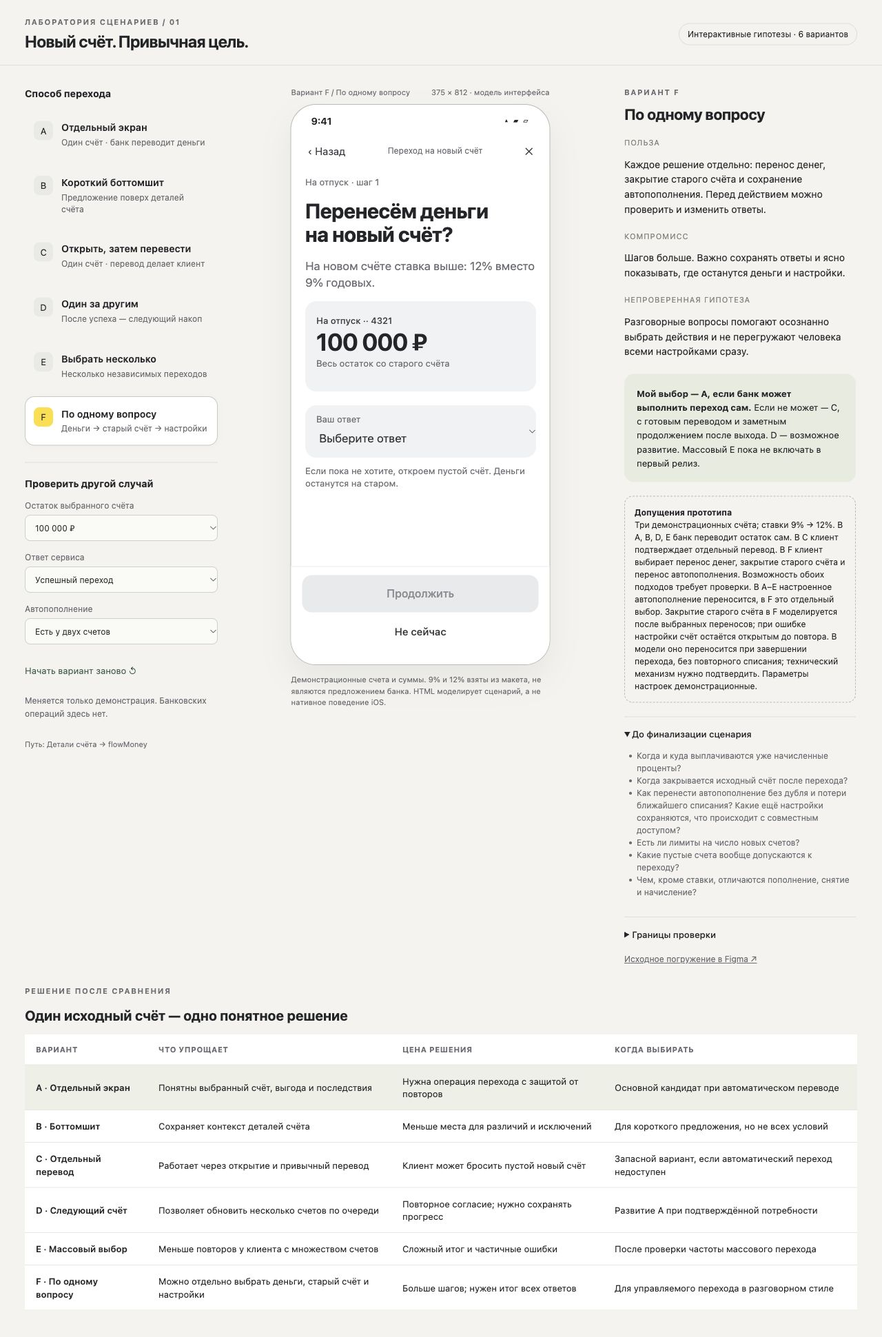
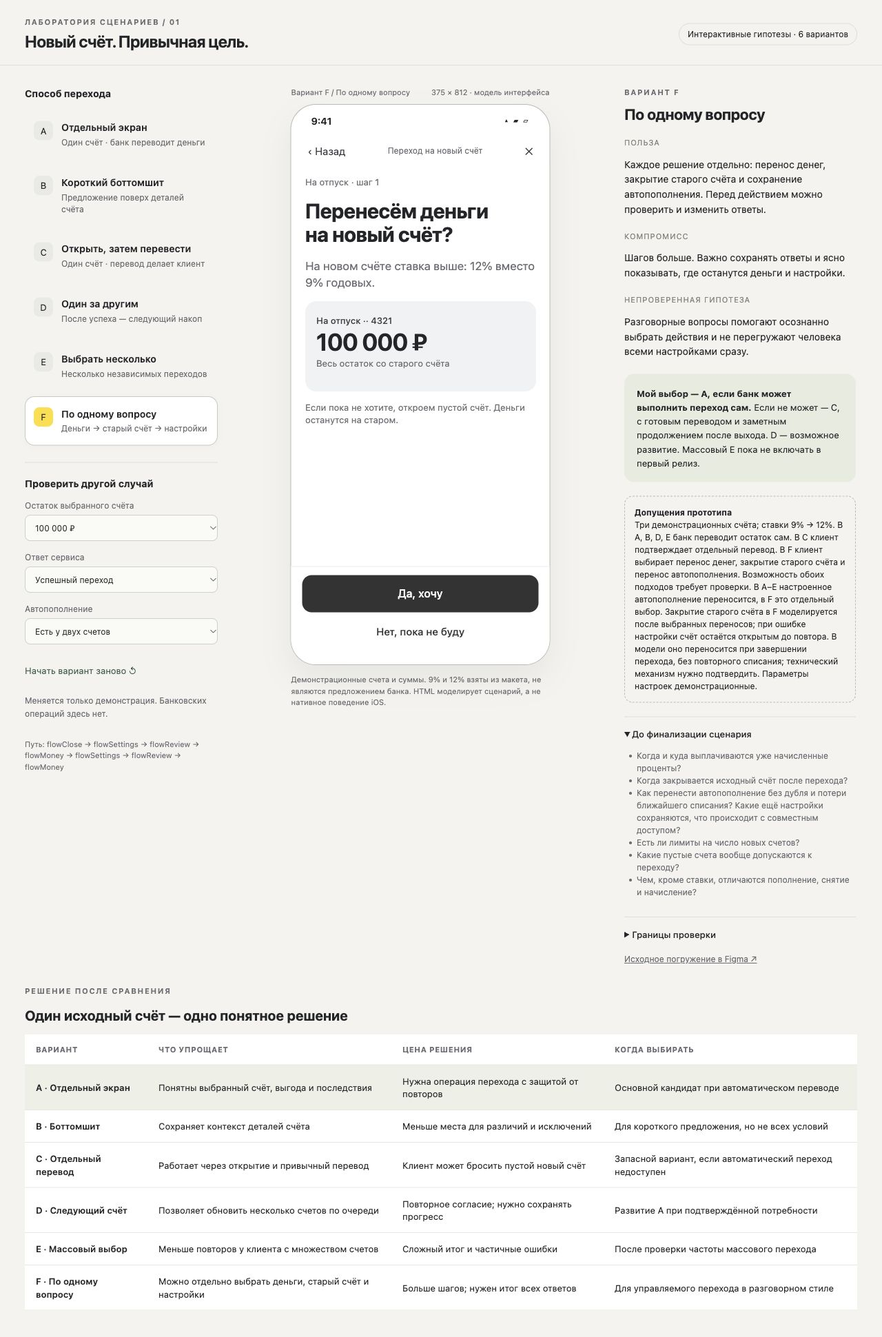
Перенести ответы варианта F в нижние кнопки

Changed region(s): [[0.3438, 0.433, 0.625, 0.4948], [0.3438, 0.3093, 0.4688, 0.3711], [0.0312, 0.5567, 0.1875, 0.5876]]

diff --git a/prototypes/account-migration/index.html b/prototypes/account-migration/index.html
@@ -7,7 +7,7 @@
 :root{font-family:-apple-system,BlinkMacSystemFont,"SF Pro Text",sans-serif;color:#242528;background:#f4f3ef;font-synthesis:none;--muted:#6c6e73;--line:#deded9;--surface:#f1f2f4;--accent:#ffdd2d}*{box-sizing:border-box}body{margin:0}button,input,select{font:inherit}button{cursor:pointer}button:disabled{cursor:default}a{color:inherit}button:focus-visible,a:focus-visible,select:focus-visible,input:focus-visible{outline:3px solid #326bc7;outline-offset:3px}header.lab{padding:24px 36px 20px;border-bottom:1px solid var(--line);display:flex;justify-content:space-between;align-items:center;gap:20px}.eyebrow{font-size:11px;font-weight:650;letter-spacing:1.6px;text-transform:uppercase;color:var(--muted)}header h1{font-size:24px;letter-spacing:-.7px;margin:8px 0 0;font-weight:650}.badge{font-size:12px;padding:8px 12px;border:1px solid var(--line);border-radius:99px;white-space:nowrap}.layout{display:grid;grid-template-columns:minmax(230px,280px) minmax(390px,1fr) minmax(260px,340px);gap:40px;max-width:1440px;margin:auto;padding:32px 36px}.sidebar h2,.review h2{font-size:14px;margin:0 0 16px}.variants{display:grid;gap:8px}.variant{display:flex;gap:12px;padding:15px 12px;text-align:left;border:1px solid transparent;border-radius:14px;background:transparent;color:inherit}.variant:hover{background:#eaeae5}.variant[aria-pressed=true]{background:#fff;border-color:#c7c9c2;box-shadow:0 3px 12px #25272006}.letter{width:28px;height:28px;display:grid;place-items:center;background:#e9eae5;border-radius:8px;font-size:13px;flex:none}.variant[aria-pressed=true] .letter{background:var(--accent)}.variant strong{font-size:14px;font-weight:600;display:block;line-height:1.35}.variant small{font-size:12px;color:var(--muted);display:block;margin-top:4px;line-height:1.4}.controls{border-top:1px solid var(--line);margin-top:24px;padding-top:22px}.control{display:grid;gap:7px;font-size:12px;margin:16px 0;color:var(--muted)}select{padding:10px;border:1px solid #cdd0c9;border-radius:8px;color:#303331;background:#fafaf7;width:100%}.text-button{border:0;background:transparent;padding:10px 0;min-height:44px;color:#3b5c49;font-size:13px;text-align:left}.note{font-size:12px;line-height:1.6;color:var(--muted)}.stage{display:flex;align-items:center;flex-direction:column}.stage-label{width:375px;display:flex;justify-content:space-between;font-size:11px;color:var(--muted);margin:0 0 12px}.phone{width:375px;height:812px;border-radius:36px;background:#fff;box-shadow:0 0 0 1px #b8bbb4,0 20px 45px #262b2112;overflow:hidden;position:relative;display:flex;flex-direction:column;flex-shrink:0}.status{height:44px;padding:15px 29px 6px;font-size:14px;font-weight:650;display:flex;justify-content:space-between;flex:none}.status .icons{letter-spacing:2px;font-size:12px}.nav{height:46px;display:flex;justify-content:space-between;align-items:center;padding:0 16px;flex:none;border-bottom:1px solid transparent}.nav button{font-size:15px;background:none;border:0;min-height:44px;padding:0 8px;color:#37393e}.nav span{font-size:12px;color:var(--muted)}.scroll{padding:8px 20px 20px;overflow:auto;flex:1;overscroll-behavior:contain}.scroll h1{font-size:29px;line-height:1.12;letter-spacing:-.7px;margin:10px 0 16px;font-weight:700;outline:none}.scroll h2{font-size:19px;line-height:1.25;margin:24px 0 12px;letter-spacing:-.3px}.scroll p{font-size:15px;line-height:1.4;margin:10px 0 16px}.secondary{color:var(--muted)}.account-chip{font-size:13px;margin:4px 0 12px;display:flex;justify-content:space-between;gap:8px;color:var(--muted)}.account-chip strong{font-weight:500;color:#383b40}.card{padding:18px;border-radius:22px;background:var(--surface);margin:14px 0}.card h2{font-size:17px;margin:0 0 14px}.rate-grid{display:grid;grid-template-columns:1fr 1fr;gap:16px}.rate-grid small{font-size:12px;color:var(--muted)}.rate-grid strong{display:block;font-size:32px;letter-spacing:-1px;margin-top:7px}.rate-grid .old{font-size:26px;color:#75787f;font-weight:500;margin-top:12px}.rate-grid .new{border-left:1px solid #d8dade;padding-left:20px}.rate-foot{font-size:12px;line-height:1.4;margin-top:14px;color:var(--muted)}.row{display:flex;justify-content:space-between;gap:18px;font-size:14px;line-height:1.4;padding:12px 0;border-bottom:1px solid #e4e5e8}.row:last-child{border:0}.row span{color:var(--muted)}.row b{font-weight:500;text-align:right;max-width:61%}.steps{display:grid;gap:16px;padding:0;list-style:none;font-size:14px;line-height:1.4}.steps li{display:flex;gap:12px}.steps .num{background:#e8e9eb;width:24px;height:24px;border-radius:50%;display:grid;place-items:center;flex:none;font-size:12px}.steps b{font-weight:600}.steps small{display:block;font-size:13px;color:var(--muted);margin-top:4px}.footer{padding:12px 16px 24px;border-top:1px solid #ececef;background:#fff;flex:none}.primary,.secondary-button{display:block;width:100%;border:0;border-radius:14px;min-height:54px;padding:14px 12px;font-size:16px;font-weight:500;line-height:1.3}.primary{background:#333;color:#fff}.primary:disabled{background:#e9eaec;color:#8c8e93}.secondary-button{background:transparent;color:#333;margin-top:4px;min-height:44px;font-size:15px}.small-link{display:block;width:100%;min-height:44px;border:0;background:none;color:#3563a0;text-align:left;padding:10px 0;font-size:14px}.check{display:flex;align-items:flex-start;gap:11px;font-size:14px;line-height:1.4;padding:12px 0;cursor:pointer}.check input{width:22px;height:22px;accent-color:#333;flex:none;margin:0}.fine{font-size:12px!important;line-height:1.4!important;color:var(--muted)}.rule{height:1px;background:#e3e4e6;margin:18px 0}.balance{font-size:35px!important;letter-spacing:-1px;font-weight:650;margin:8px 0!important}.actions{display:flex;gap:10px;margin:22px 0}.actions span{padding:14px 8px;border-radius:16px;background:#f1f2f5;flex:1;text-align:center;color:#4268a3;font-size:13px}.entry{padding:18px;border:0;border-radius:20px;background:#f1f2f4;width:100%;text-align:left;display:flex;justify-content:space-between;gap:12px;color:#25282c}.entry strong{font-size:17px;display:block;line-height:1.2}.entry small{display:block;font-size:13px;color:var(--muted);margin-top:7px}.arrow{align-self:center;font-size:24px;color:#7b7e84}.mini-cards{display:flex;gap:12px}.mini-cards .card{flex:1;padding:16px;font-size:14px}.mini-cards strong{display:block;margin-bottom:12px}.pill{font-size:12px;background:#e4eadf;border-radius:20px;padding:6px 10px;display:inline-block;color:#40513d}.done-icon{height:62px;width:62px;border-radius:50%;display:grid;place-items:center;background:#e9eee7;color:#456442;font-size:30px;margin:32px 0 24px}.pending-icon{background:#f2eee2;color:#8c7444}.review{padding:0 2px}.review h3{font-size:22px;line-height:1.2;letter-spacing:-.4px;margin:12px 0}.review p{font-size:14px;line-height:1.55}.review-label{font-size:11px;text-transform:uppercase;letter-spacing:1px;color:#85877e;margin-top:22px}.recommendation{padding:18px;border-radius:14px;background:#e7ebdf;margin-top:22px}.recommendation p{margin:0;font-size:13px}.review details{border-top:1px solid var(--line);padding:15px 0;font-size:13px;line-height:1.5}.review summary{cursor:pointer;font-weight:500}.review ul{padding-left:18px;color:var(--muted);font-size:12px}.review .demo{border:1px dashed #b8bdb2;padding:14px;border-radius:12px;font-size:12px;line-height:1.5;margin:20px 0}.preview-bottom{font-size:11px;color:var(--muted);max-width:375px;line-height:1.5;margin-top:14px}.sheet-backdrop{position:absolute;inset:0;background:#20232b55;display:flex;align-items:flex-end;z-index:5}.sheet{background:white;max-height:90%;border-radius:28px 28px 0 0;width:100%;display:flex;flex-direction:column;box-shadow:0 -10px 60px #0002}.handle{width:36px;height:5px;border-radius:5px;background:#d4d5d8;margin:9px auto 2px;flex:none}.sheet .scroll{padding:0 20px 14px}.sheet h1{font-size:27px}.sheet .nav{height:40px}.account-choice{display:flex;gap:12px;align-items:center;background:var(--surface);padding:16px;border-radius:18px;margin:10px 0;cursor:pointer}.account-choice input{width:22px;height:22px;accent-color:#333;flex:none}.account-choice strong{font-size:15px;display:block}.account-choice small{font-size:12px;color:var(--muted);display:block;margin-top:5px}.account-choice b{margin-left:auto;font-size:14px;font-weight:500;white-space:nowrap}.quiet{border:0;background:none}.subtle-warning{background:#f6f0e4;padding:14px;border-radius:14px;font-size:13px;line-height:1.4;margin:14px 0}.processing{padding-top:70px}.spinner{width:42px;height:42px;border:3px solid #e4e5e8;border-top-color:#333;border-radius:50%;margin:20px 0 30px}.scenario-info{margin-top:14px;padding:12px 14px;background:#ebece6;border-radius:10px;font-size:12px;line-height:1.5}.comparison{max-width:1368px;margin:0 auto 40px;padding:0 36px}.comparison h2{font-size:20px}.table-wrap{overflow:auto}table{width:100%;border-collapse:collapse;text-align:left;background:#fff;font-size:13px}th,td{padding:14px 16px;border-bottom:1px solid #e6e7e0;line-height:1.4;min-width:150px}th{font-size:11px;letter-spacing:.6px;text-transform:uppercase;color:var(--muted)}tr.selected{background:#edf0e7}td:first-child{font-weight:600}.trail{font-size:11px;line-height:1.5;color:var(--muted);padding-top:14px}.empty{padding:30px 0}.account-result{background:#f2f3f5;border-radius:16px;padding:14px;margin:10px 0;font-size:14px}.account-result small{color:var(--muted);display:block;margin-top:6px}.status-line{display:flex;gap:8px;align-items:center;margin-top:8px;font-size:12px;color:#4e694a}.status-dot{width:6px;height:6px;border-radius:50%;background:currentColor}.scope{font-size:13px!important;padding:0 0 8px}.review .link{font-size:12px;color:#53654a}.notice{font-size:12px;color:#8a7135}.source-link{font-size:12px;color:var(--muted)}
 @media(max-width:1100px){.layout{gap:24px;grid-template-columns:240px 1fr}.review{grid-column:1/-1;display:grid;grid-template-columns:1fr 1fr;gap:24px}.review .review-main{grid-column:auto}header.lab{padding:20px 24px}.layout{padding:24px}.comparison{padding:0 24px}}
 @media(max-width:680px){header.lab{padding:18px 16px}header h1{font-size:19px}.badge{display:none}.layout{display:flex;flex-direction:column;padding:20px 0;gap:22px}.sidebar{padding:0 16px}.variants{grid-template-columns:repeat(6,1fr);gap:6px}.variant{padding:9px;display:block}.variant .letter{margin:0 auto}.variant strong,.variant small{display:none}.controls{margin-top:12px;padding-top:10px;display:grid;grid-template-columns:1fr 1fr;gap:12px}.controls h2,.controls .note{display:none}.control{margin:0}.controls>.text-button{grid-column:1/-1;padding:0}.review{display:block;padding:0 20px}.phone{max-width:100vw;border-radius:24px;width:min(375px,100vw)}.stage-label,.preview-bottom{width:calc(100% - 32px);max-width:375px}.comparison{padding:0 16px}.stage{gap:0}.trail{display:none}}
-.conversation .card{border-radius:16px;padding:16px}.conversation h1{font-size:30px;line-height:34px}.conversation p{font-size:17px;line-height:24px}.conversation .fine{font-size:13px!important;line-height:18px!important}.answer{display:block;position:relative;background:#f1f2f4;border-radius:16px;margin:20px 0 8px}.answer>span{position:absolute;top:12px;left:16px;font-size:13px;color:var(--muted);pointer-events:none}.answer select{height:76px;padding:30px 36px 12px 16px;border:0;border-radius:16px;background:transparent;font-size:17px}.conversation .row b{text-align:left;max-width:100%}.conversation .small-link{padding-bottom:0}.conversation-step{font-size:13px;color:var(--muted);margin:6px 0 18px}.conversation-summary{margin:12px 0}.conversation-summary h2{margin:0 0 8px;font-size:17px}.conversation-summary p{margin:0;font-size:15px;line-height:21px}
+.conversation .card{border-radius:16px;padding:16px}.conversation h1{font-size:30px;line-height:34px}.conversation p{font-size:17px;line-height:24px}.conversation .fine{font-size:13px!important;line-height:18px!important}.conversation .row b{text-align:left;max-width:100%}.conversation .small-link{padding-bottom:0}.conversation-step{font-size:13px;color:var(--muted);margin:6px 0 18px}.conversation-summary{margin:12px 0}.conversation-summary h2{margin:0 0 8px;font-size:17px}.conversation-summary p{margin:0;font-size:15px;line-height:21px}
 </style>
 <header class="lab"><div><div class="eyebrow">Лаборатория сценариев / 01</div><h1>Новый счёт. Привычная цель.</h1></div><span class="badge">Интерактивные гипотезы · 6 вариантов</span></header>
 <main class="layout">
@@ -85,7 +85,7 @@ function resolveOperation(){const outcome=$('outcome').value;if(outcome==='unkno
 document.addEventListener('click',e=>{const variant=e.target.closest('[data-variant]');if(variant){v=variant.dataset.variant;reset();return;}const b=e.target.closest('[data-action]');if(!b||b.disabled)return;const action=b.dataset.action;
  if(action.startsWith('account:')){current=action.split(':')[1];consent=false;move(step==='next'?'offer':'detail');return;}
  if(action==='start'&&v==='F'){consent=false;move(done.has(current)?'detail':conversationPath()[0]);return;}
- if(action==='flowNext'){const path=conversationPath();if(!conversationStepReady())return;move(path[path.indexOf(step)+1]);return;}
+ if(action.startsWith('answer:')){const [,key,value]=action.split(':');conversationAnswer(key,value);return;}
  if(action==='start'){consent=false;if(v==='E'){selected=new Set([current]);move('select');}else move(v==='B'?'sheet':'offer');return;}
  if(action==='submit'){begin(v==='F'?'conversation':v==='C'?'open':'auto');return;}
  if(action==='transferSubmit'){begin('transfer');return;}
@@ -99,7 +99,7 @@ document.addEventListener('click',e=>{const variant=e.target.closest('[data-vari
  if(action==='detail'){consent=false;}
  move(action);
 });
-document.addEventListener('change',e=>{if(e.target.dataset.answer){conversationAnswer(e.target.dataset.answer,e.target.value);return;}if(e.target.id==='consent'){consent=e.target.checked;const b=$('phone').querySelector('[data-action="submit"]');b.disabled=!consent;}else if(e.target.dataset.account){const id=e.target.dataset.account;e.target.checked?selected.add(id):selected.delete(id);const b=$('phone').querySelector('[data-action="offer"]');b.disabled=selected.size===0;b.textContent='Сравнить условия · '+selected.size;}else if(e.target.id==='balance'||e.target.id==='settings'){reset();}});
+document.addEventListener('change',e=>{if(e.target.id==='consent'){consent=e.target.checked;const b=$('phone').querySelector('[data-action="submit"]');b.disabled=!consent;}else if(e.target.dataset.account){const id=e.target.dataset.account;e.target.checked?selected.add(id):selected.delete(id);const b=$('phone').querySelector('[data-action="offer"]');b.disabled=selected.size===0;b.textContent='Сравнить условия · '+selected.size;}else if(e.target.id==='balance'||e.target.id==='settings'){reset();}});
 $('reset').addEventListener('click',reset);
 document.addEventListener('keydown',e=>{if(step!=='sheet')return;if(e.key==='Escape'){e.preventDefault();move('detail');}if(e.key==='Tab'){const nodes=[...$('phone').querySelectorAll('.sheet button:not(:disabled),.sheet input')];const first=nodes[0],last=nodes.at(-1);if(e.shiftKey&&document.activeElement===first){last.focus();e.preventDefault();}else if(!e.shiftKey&&document.activeElement===last){first.focus();e.preventDefault();}}});
 reset();

diff --git a/prototypes/account-migration/conversation.js b/prototypes/account-migration/conversation.js
@@ -10,10 +10,6 @@ function conversationPath() {
     a.amount===0||answer.money==='yes'?'flowClose':null,
     a.autopay?'flowSettings':null, 'flowReview'].filter(Boolean);
 }
-function conversationStepReady() {
-  const key={flowMoney:'money',flowClose:'close',flowSettings:'settings'}[step];
-  return !key || ['yes','no'].includes(conversationAnswers()[key]);
-}
 function conversationReady() {
   const a=account(), d=conversationAnswers();
   return (a.amount===0||['yes','no'].includes(d.money)) &&
@@ -21,20 +17,23 @@ function conversationReady() {
     (!a.autopay||['yes','no'].includes(d.settings));
 }
 function conversationAnswer(key,value) {
-  if(!['money','close','settings'].includes(key)||!['yes','no',''].includes(value))return;
+  if(v!=='F'||key!=={flowMoney:'money',flowClose:'close',flowSettings:'settings'}[step]||!['yes','no'].includes(value))return;
   const d=conversationAnswers();d[key]=value;
   if(key==='money'&&value!=='yes')d.close='';
   consent=false;
-  // Сохраняем фокус на открытом поле: обновляется только доступность кнопки.
-  const next=$('phone').querySelector('[data-action="flowNext"]');
-  if(next)next.disabled=!conversationStepReady();
+  const path=conversationPath();
+  move(path[path.indexOf(step)+1]);
 }
 function conversationBack() {
   const path=conversationPath();return path[path.indexOf(step)-1]||'detail';
 }
-function conversationField(key,yes,no) {
-  const value=conversationAnswers()[key];
-  return `<label class="answer"><span>Ваш ответ</span><select data-answer="${key}" aria-label="${{money:'Перенести деньги',close:'Закрыть старый счёт',settings:'Перенести автопополнение'}[key]}"><option value="" ${!value?'selected':''}>Выберите ответ</option><option value="yes" ${value==='yes'?'selected':''}>${yes}</option><option value="no" ${value==='no'?'selected':''}>${no}</option></select></label>`;
+function conversationChoices() {
+  const [key,yes,no]={
+    flowMoney:['money','Да, хочу','Нет, пока не буду'],
+    flowClose:['close','Да, закроем','Нет, оставим открытым'],
+    flowSettings:['settings','Да, оставим как есть','Нет, не переносим']
+  }[step];
+  return button(yes,`answer:${key}:yes`)+button(no,`answer:${key}:no`,true);
 }
 function conversationSummary(a,d,result=false) {
   const moved=d.money==='yes'?a.amount:0;
@@ -52,11 +51,11 @@ function conversationSummary(a,d,result=false) {
 function conversationView() {
   const a=account(),d=conversationAnswers(),path=conversationPath();
   let content='';
-  if(step==='flowMoney') content=`<h1 tabindex="-1">Перенесём деньги<br>на новый счёт?</h1><p class="secondary">На новом счёте ставка выше: 12% вместо 9% годовых.</p><div class="card"><div class="account-chip"><strong>${a.name} ·· ${a.tail}</strong></div><p class="balance">${money(a.amount)}</p><p class="fine">Весь остаток со старого счёта</p></div>${conversationField('money','Да, хочу','Нет, пока не буду')}<p class="fine">Если пока не хотите, откроем пустой счёт. Деньги останутся на старом.</p>`;
-  if(step==='flowClose') content=`<h1 tabindex="-1">Старый счёт<br>закроем?</h1><p class="secondary">${a.amount===0?'На старом счёте сейчас 0 ₽. Переводить деньги не нужно.':'После переноса денег на старом счёте останется 0 ₽.'}</p><div class="card"><h2>${a.name} ·· ${a.tail}</h2><p class="fine">Старый накопительный счёт · 9% годовых</p></div>${conversationField('close','Да, закроем','Нет, оставим открытым')}<p class="fine">Если оставите открытым, сможете пользоваться обоими счетами.</p>`;
-  if(step==='flowSettings') content=`<h1 tabindex="-1">Автопополнение<br>оставим как есть?</h1><p class="secondary">Перенесём на новый счёт сумму, расписание и карту списания.</p><div class="card"><h2>Сейчас настроено</h2><div class="row"><span>Сумма</span><b>${money(a.autopay.amount)}</b></div><div class="row"><span>Когда</span><b>${a.autopay.schedule}</b></div><div class="row"><span>Откуда</span><b>${a.autopay.source}</b></div></div>${conversationField('settings','Да, оставим как есть','Нет, не переносим')}<p class="fine">${d.close==='yes'?'Если не переносить, автопополнение отключится при закрытии старого счёта.':'Если не переносить, автопополнение останется на старом счёте.'}</p>`;
+  if(step==='flowMoney') content=`<h1 tabindex="-1">Перенесём деньги<br>на новый счёт?</h1><p class="secondary">На новом счёте ставка выше: 12% вместо 9% годовых.</p><div class="card"><div class="account-chip"><strong>${a.name} ·· ${a.tail}</strong></div><p class="balance">${money(a.amount)}</p><p class="fine">Весь остаток со старого счёта</p></div><p class="fine">Если пока не хотите, откроем пустой счёт. Деньги останутся на старом.</p>`;
+  if(step==='flowClose') content=`<h1 tabindex="-1">Старый счёт<br>закроем?</h1><p class="secondary">${a.amount===0?'На старом счёте сейчас 0 ₽. Переводить деньги не нужно.':'После переноса денег на старом счёте останется 0 ₽.'}</p><div class="card"><h2>${a.name} ·· ${a.tail}</h2><p class="fine">Старый накопительный счёт · 9% годовых</p></div><p class="fine">Если оставите открытым, сможете пользоваться обоими счетами.</p>`;
+  if(step==='flowSettings') content=`<h1 tabindex="-1">Автопополнение<br>оставим как есть?</h1><p class="secondary">Перенесём на новый счёт сумму, расписание и карту списания.</p><div class="card"><h2>Сейчас настроено</h2><div class="row"><span>Сумма</span><b>${money(a.autopay.amount)}</b></div><div class="row"><span>Когда</span><b>${a.autopay.schedule}</b></div><div class="row"><span>Откуда</span><b>${a.autopay.source}</b></div></div><p class="fine">${d.close==='yes'?'Если не переносить, автопополнение отключится при закрытии старого счёта.':'Если не переносить, автопополнение останется на старом счёте.'}</p>`;
   if(step==='flowReview') content=`<h1 tabindex="-1">Всё верно?</h1><p class="secondary">Откроем новый счёт «${a.name}». Остальное — по вашим ответам.</p>${conversationSummary(a,d)}<button class="small-link" data-action="documents">Тариф и документы →</button><label class="check"><input id="consent" type="checkbox" ${consent?'checked':''}><span>Согласен с условиями открытия нового счёта и выбранными выше действиями</span></label><p class="fine">Это прототип: правила выплаты процентов и закрытия счёта требуют подтверждения банка.</p>`;
-  return `<div class="scroll conversation"><div class="conversation-step">${a.name} · ${step==='flowReview'?'проверка ответов':'шаг '+(path.indexOf(step)+1)}</div>${content}</div><div class="footer">${step==='flowReview'?button('Всё верно, продолжить','submit',false,!consent||!conversationReady()):button('Продолжить','flowNext',false,!conversationStepReady())}${button('Не сейчас','detail',true)}</div>`;
+  return `<div class="scroll conversation"><div class="conversation-step">${a.name} · ${step==='flowReview'?'проверка ответов':'шаг '+(path.indexOf(step)+1)}</div>${content}</div><div class="footer">${step==='flowReview'?button('Всё верно, продолжить','submit',false,!consent||!conversationReady())+button('Не сейчас','detail',true):conversationChoices()}</div>`;
 }
 function conversationResult(detail=false) {
   const a=account(),d=conversationResults[current],failed=settingsFailed.has(current);

diff --git a/prototypes/account-migration/Проверка и выбор.md b/prototypes/account-migration/Проверка и выбор.md
@@ -67,9 +67,9 @@ D рассматривать как развитие A. E не включать 
 
 ## Дополнение: F — разговорный переход, 20 ноября 2026
 
-Добавлен вариант с последовательными вопросами: перенести весь остаток со старого счёта, закрыть старый счёт, перенести существующее автопополнение. Поле ответа — нативный выпадающий список. Ответы сохраняются при возврате, изменение ответа сбрасывает согласие. На итоговом экране показаны выбранные действия.
+Добавлен вариант с последовательными вопросами: перенести весь остаток со старого счёта, закрыть старый счёт, перенести существующее автопополнение. Ответ выбирается одной из двух кнопок в нижнем контейнере, сразу с переходом к следующему вопросу. Ответы сохраняются при возврате, изменение ответа сбрасывает согласие. На итоговом экране показаны выбранные действия.
 
-Проверено в работающем браузере: основной путь до результата, отказ от переноса денег (старый счёт сохраняется с остатком), нулевой остаток без автопополнения, недоступная кнопка до ответа и согласия. На ширине 375 px ширина документа и телефона — 375 px, горизонтального переполнения нет. Снимок: `conversation-preview.jpg`.
+Проверено в работающем браузере: основной путь до результата, отказ от переноса денег (старый счёт сохраняется с остатком), нулевой остаток без автопополнения, недоступная кнопка подтверждения до согласия. На ширине 375 px ширина документа и телефона — 375 px, горизонтального переполнения нет. Снимок: `conversation-preview.jpg`.
 
 Автоматическая проверка модели (`node prototypes/account-migration/check-conversation.cjs`) дополнительно покрывает сохранение старого счёта, отказ от переноса настройки, изменение ответа после согласия, неизвестный результат без повторного открытия, ошибку переноса настройки и повтор только настройки, независимые ответы для другого счёта, успешные пути A–E.
 
